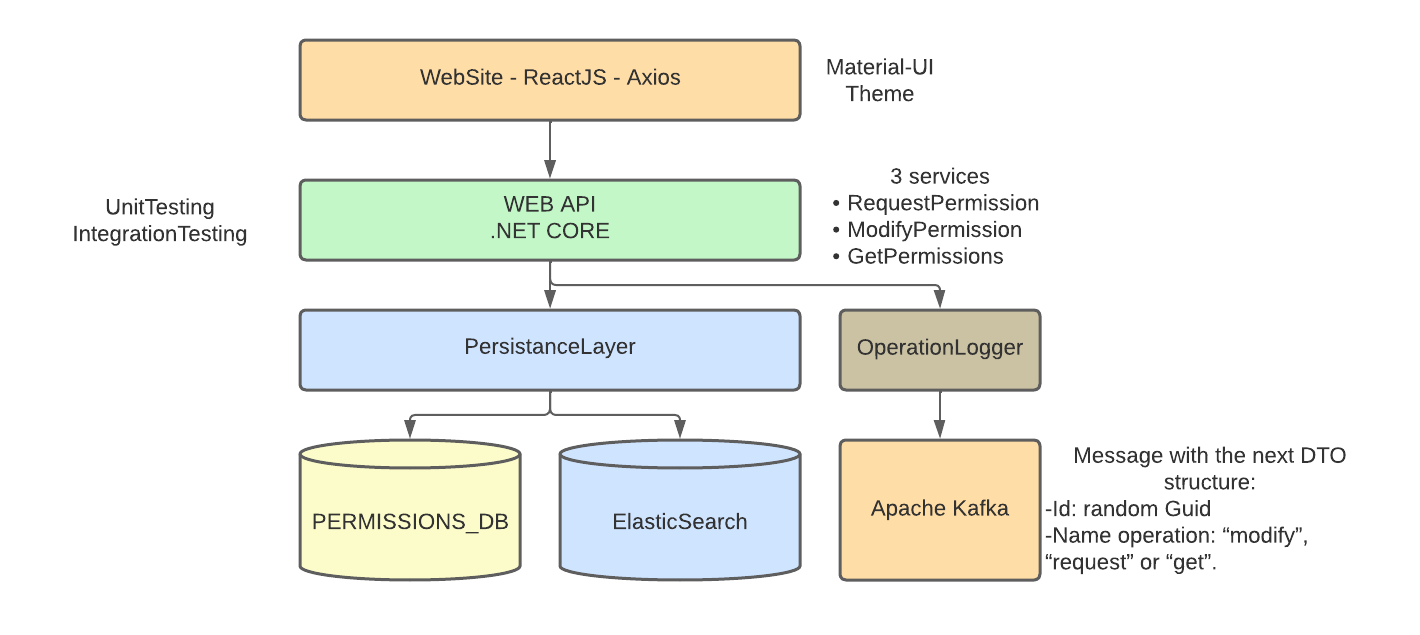
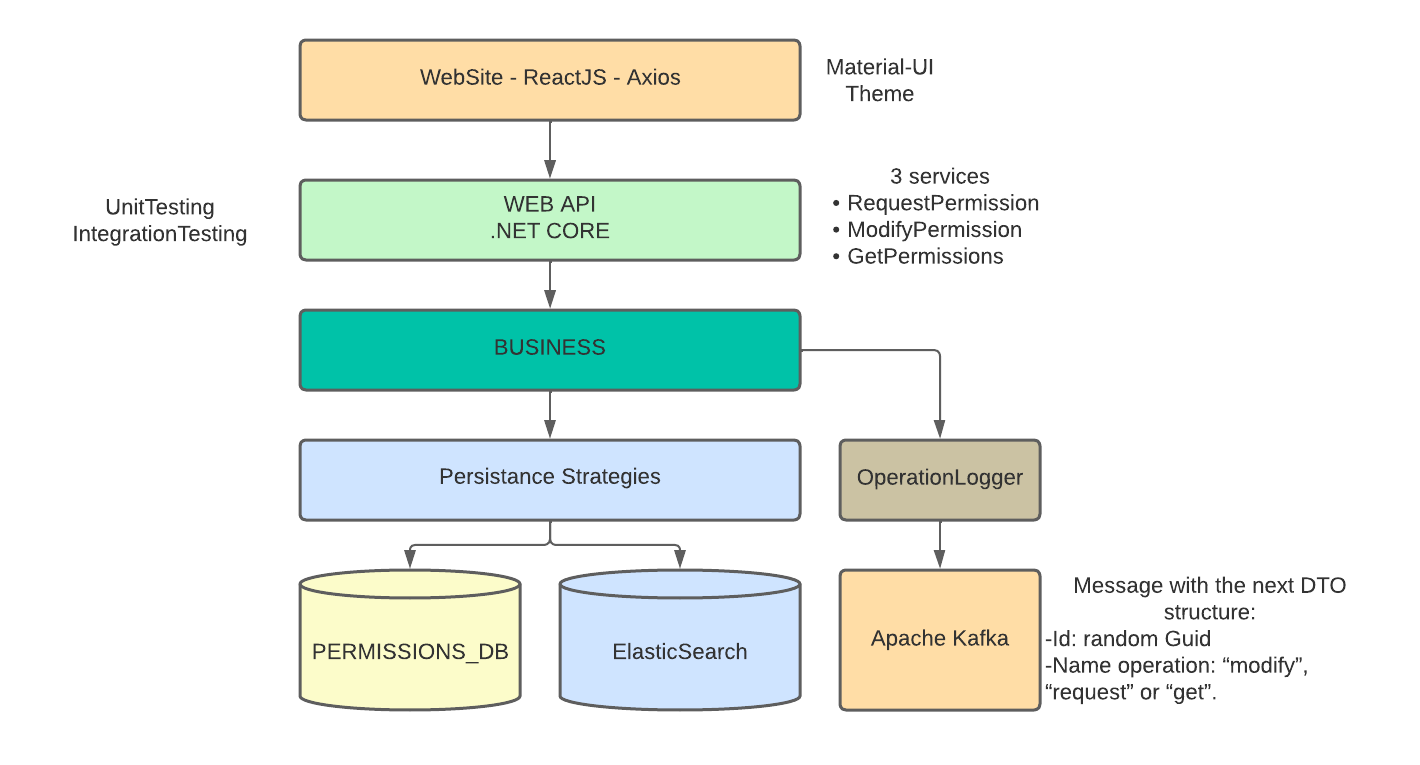
Add BUSINESS LAYER

Changed region(s): [[0.031, 0.0299, 0.9606, 0.9575], [0.4338, 0.778, 0.5268, 0.8677], [0.6197, 0.778, 0.7127, 0.8677]]

diff --git a/WebApi/Controllers/PermissionsController.cs b/WebApi/Controllers/PermissionsController.cs
@@ -1,5 +1,6 @@
 using Microsoft.AspNetCore.Cors;
 using Microsoft.AspNetCore.Mvc;
+using WebApi.Business;
 using WebApi.Models;
 using WebApi.Persistance;
 
@@ -10,58 +11,41 @@ namespace WebApi.Controllers
     [EnableCors(Config.CORS_POLICY_NAME)]
     public class PermissionsController : ControllerBase
     {
-        private readonly IRepository<Permission> permissionRepo;
+        private readonly IBusiness<Permission> permissionBusiness;
 
-        public PermissionsController(IRepository<Permission> per)
+        public PermissionsController(IBusiness<Permission> per)
         {
-            permissionRepo = per;
+            permissionBusiness = per;
         }
 
         [HttpGet(Name = "GetPermissions")]
         public IEnumerable<Permission> Get()
         {
-            return permissionRepo.GetAll() ;
+            return permissionBusiness.GetAll() ;
         }
 
         [HttpPost(Name = "AddPermission")]
         public IActionResult Post([FromBody] Permission permiso)
         {
-            if (permissionRepo.Add(permiso))
-            {
-                return CreatedAtRoute("GetPermissions", new { id = permiso.Id }, permiso);
-            }
-            else
-            {
-                return BadRequest("Failed to add permission.");
-            }
+            return permissionBusiness.Add(permiso)
+               ? CreatedAtRoute("GetPermissions", new { id = permiso.Id }, permiso)
+               : BadRequest("Failed to add permission.");
         }
 
         [HttpGet("{id}", Name = "GetPermission")]
         public IActionResult Get(int id)
         {
-            var permiso = permissionRepo.GetById(id);
-            if (permiso != null)
-            {
-                return Ok(permiso);
-            }
-            else
-            {
-                return NotFound();
-            }
+            var permiso = permissionBusiness.GetById(id);
+
+            return (permiso != null) ? Ok(permiso): NotFound();
         }
 
         [HttpPut("{id}", Name = "UpdatePermission")]
         public IActionResult Put(int id, [FromBody] Permission permiso)
         {
             permiso.Id = id;
-            if (permissionRepo.Update(permiso))
-            {
-                return Ok(permiso);
-            }
-            else
-            {
-                return BadRequest("Failed to update permission.");
-            }
+
+            return (permissionBusiness.Update(permiso)) ? Ok(permiso): BadRequest("Failed to update permission.");
         }
     }
 }

diff --git a/WebApiTests/PermisosTests.cs b/WebApiTests/PermisosTests.cs
@@ -7,6 +7,7 @@ using WebApi.Persistance;
 using Microsoft.AspNetCore.Mvc;
 using Microsoft.EntityFrameworkCore;
 using WebApi.Persistance.EntityFramework;
+using WebApi.Business;
 
 public class PermisosTests
 {
@@ -14,16 +15,16 @@ public class PermisosTests
     public void TestGetPermissions()
     {
         // Arrange
-        var mockPersist = new Mock<IRepository<Permission>>();
+        var mockBusiness = new Mock<IBusiness<Permission>>();
         // Create a list of sample permissions
         var samplePermissions = new List<Permission>
         {
             new Permission { Id = 1, NombreEmpleado = "Employee1", ApellidoEmpleado = "Last1", TipoPermisoId = 1, FechaPermiso = new DateTime(2023, 10, 1) },
             new Permission { Id = 2, NombreEmpleado = "Employee2", ApellidoEmpleado = "Last2", TipoPermisoId = 2, FechaPermiso = new DateTime(2023, 10, 2) }
         };
-        mockPersist.Setup(p => p.GetAll()).Returns(samplePermissions);
+        mockBusiness.Setup(p => p.GetAll()).Returns(samplePermissions);
 
-        var controller = new PermissionsController(mockPersist.Object);
+        var controller = new PermissionsController(mockBusiness.Object);
 
         // Act
         var result = controller.Get();
@@ -44,8 +45,10 @@ public class PermisosTests
            .Options;
 
         var DbContext = new ApiDbContext(options);
-        var controller = new PermissionsController(new PermissionRepository(DbContext));
+        var mockBusiness = new Mock<IBusiness<Permission>>();
+        var controller = new PermissionsController(mockBusiness.Object);
         
+
 
         // Create a new permission to add
         var newPermission = new Permission

diff --git a/WebApi/Business/PermissionsBusiness.cs b/WebApi/Business/PermissionsBusiness.cs
@@ -1,0 +1,37 @@
+using Microsoft.AspNetCore.Cors;
+using Microsoft.AspNetCore.Mvc;
+using WebApi.Models;
+using WebApi.Persistance;
+
+namespace WebApi.Business
+{
+    public class PermissionsBusiness
+    {
+        private readonly IRepository<Permission> permissionRepo;
+
+        public PermissionsBusiness(IRepository<Permission> per)
+        {
+            permissionRepo = per;
+        }
+
+        public IEnumerable<Permission> Get()
+        {
+            return permissionRepo.GetAll() ;
+        }
+
+        public bool Add(Permission permiso)
+        {
+            return permissionRepo.Add(permiso);
+        }
+
+        public Permission? Get(int id)
+        {
+            return permissionRepo.GetById(id);
+        }
+
+        public bool Update(int id, [FromBody] Permission permiso)
+        {
+            return permissionRepo.Update(permiso) ;
+        }
+    }
+}

diff --git a/WebApi/Business/IBusiness.cs b/WebApi/Business/IBusiness.cs
@@ -1,0 +1,11 @@
+namespace WebApi.Business
+{
+    public interface IBusiness<T>
+    {
+        IEnumerable<T> GetAll();
+        T? GetById(int id);
+        bool Add(T entity);
+        bool Update(T entity);
+    }
+
+}
